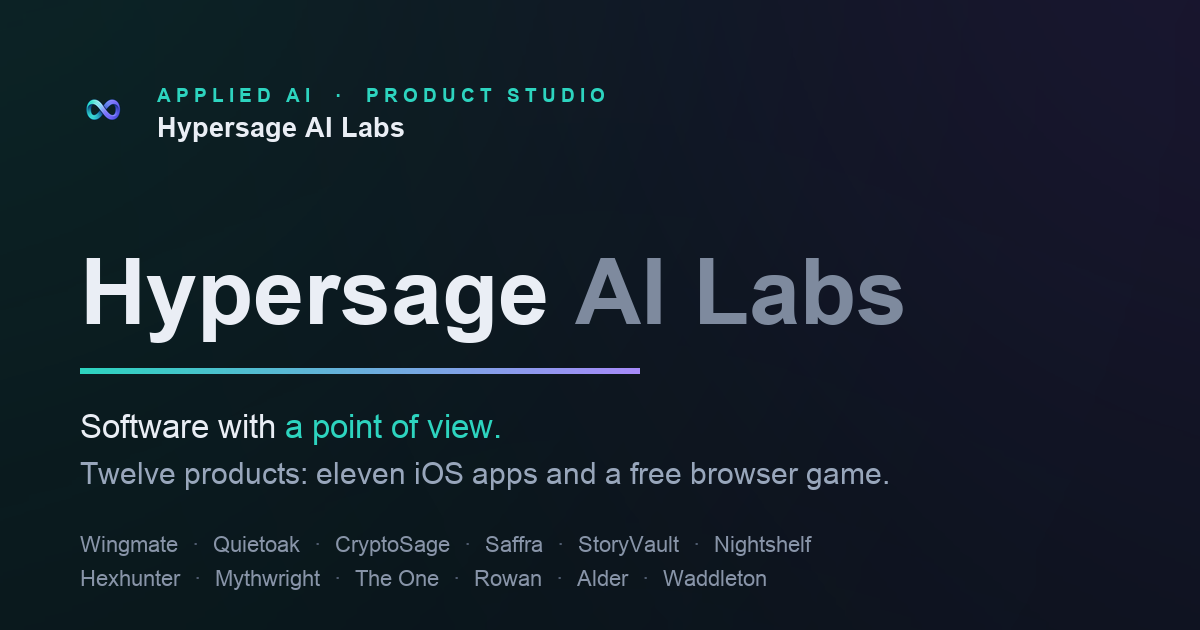
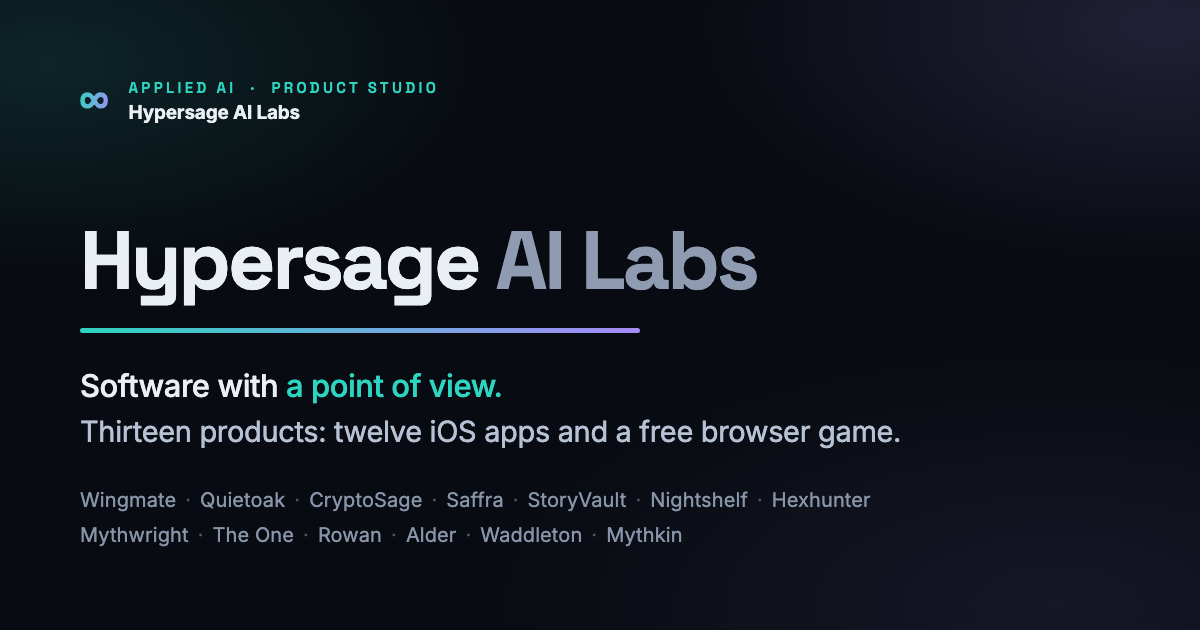
Redraw the link preview: thirteen products, and Mythkin is on it
The og-image was one generation behind the site. It read "Twelve products: eleven
iOS apps and a free browser game" and listed twelve names — Mythkin, shipped since,
was missing. The page's own meta description and og:description were already right
("thirteen consumer products", "twelve iOS apps and a free browser game"), so the
IMAGE was the only surface still telling anyone the wrong number, and the image is
the surface people actually see when the link is pasted into a message.

Redrawn to match the original exactly — same wash, same infinity mark, same
teal-to-violet rule, same type ramp — with the count corrected and the roster at
thirteen across two rows.

Cache-buster bumped to ?v=20260806 in all 24 files that reference it. Scrapers key
their cache on the URL, so an unchanged query string means iMessage, Slack and
Twitter would keep serving the old card for weeks regardless of what we upload.

diff --git a/index.html b/index.html
@@ -24,14 +24,14 @@
   <meta property="og:description" content="Thirteen consumer products across dating, mental health, chronic illness, recovery, crypto, cooking, AI characters, fiction, sleep, and games — each honest about what it is.">
   <meta property="og:url" content="https://hypersage.ai/">
   <meta property="og:site_name" content="Hypersage AI Labs">
-  <meta property="og:image" content="https://hypersage.ai/og-image.png?v=20260731b">
+  <meta property="og:image" content="https://hypersage.ai/og-image.png?v=20260806">
   <meta property="og:image:width" content="1200">
   <meta property="og:image:height" content="630">
   <meta property="og:image:alt" content="Hypersage AI Labs — an AI product studio">
   <meta name="twitter:card" content="summary_large_image">
   <meta name="twitter:title" content="Hypersage AI Labs — an independent AI product studio">
   <meta name="twitter:description" content="An independent studio building twelve iOS apps and one free browser game — human-directed, and honest about what the AI is.">
-  <meta name="twitter:image" content="https://hypersage.ai/og-image.png?v=20260731b">
+  <meta name="twitter:image" content="https://hypersage.ai/og-image.png?v=20260806">
   <meta name="twitter:image:alt" content="Hypersage AI Labs — an AI product studio">
 
   <link rel="icon" type="image/png" href="favicon.png">
@@ -44,7 +44,7 @@
     "name": "Hypersage AI Labs",
     "url": "https://hypersage.ai/",
     "logo": "https://hypersage.ai/apple-touch-icon.png",
-    "image": "https://hypersage.ai/og-image.png?v=20260731b",
+    "image": "https://hypersage.ai/og-image.png?v=20260806",
     "description": "An independent studio building thirteen consumer products — twelve iOS apps and one free browser game — across dating, mental health, chronic illness, recovery, crypto, cooking, AI characters, fiction, sleep, and play.",
     "email": "support@hypersage.ai",
     "makesOffer": [

diff --git a/rowan/index.html b/rowan/index.html
@@ -17,14 +17,14 @@
   <meta property="og:description" content="Talk about your day in plain words. Rowan turns it into a record you can use — and a brief you hand your doctor.">
   <meta property="og:url" content="https://hypersage.ai/rowan/">
   <meta property="og:site_name" content="Rowan">
-  <meta property="og:image" content="https://hypersage.ai/rowan/og-image.png?v=20260731a">
+  <meta property="og:image" content="https://hypersage.ai/rowan/og-image.png?v=20260806">
   <meta property="og:image:width" content="1200">
   <meta property="og:image:height" content="630">
   <meta property="og:image:alt" content="Rowan — the health companion that knows your story">
   <meta name="twitter:card" content="summary_large_image">
   <meta name="twitter:title" content="Rowan — the health companion that knows your story.">
   <meta name="twitter:description" content="Talk about your day in plain words. Rowan turns it into a record you can use — and a brief you hand your doctor.">
-  <meta name="twitter:image" content="https://hypersage.ai/rowan/og-image.png?v=20260731a">
+  <meta name="twitter:image" content="https://hypersage.ai/rowan/og-image.png?v=20260806">
   <meta name="twitter:image:alt" content="Rowan — the health companion that knows your story">
 
   <link rel="icon" type="image/png" href="rowan-icon.png?v=20260731a">

diff --git a/hexhunter/index.html b/hexhunter/index.html
@@ -17,14 +17,14 @@
   <meta property="og:description" content="A gothic illustrated horde-survivor for iOS. Pick a hero, draft upgrades, evolve weapons, and survive the horde.">
   <meta property="og:url" content="https://hypersage.ai/hexhunter/">
   <meta property="og:site_name" content="Hexhunter">
-  <meta property="og:image" content="https://hypersage.ai/hexhunter/og-image.png?v=20260711a">
+  <meta property="og:image" content="https://hypersage.ai/hexhunter/og-image.png?v=20260806">
   <meta property="og:image:width" content="1200">
   <meta property="og:image:height" content="630">
   <meta property="og:image:alt" content="Hexhunter — a gothic illustrated horde-survivor">
   <meta name="twitter:card" content="summary_large_image">
   <meta name="twitter:title" content="Hexhunter — Survive the Horde. Draft Your Doom.">
   <meta name="twitter:description" content="A gothic illustrated horde-survivor for iOS. Draft upgrades, evolve weapons, survive the horde.">
-  <meta name="twitter:image" content="https://hypersage.ai/hexhunter/og-image.png?v=20260711a">
+  <meta name="twitter:image" content="https://hypersage.ai/hexhunter/og-image.png?v=20260806">
   <meta name="twitter:image:alt" content="Hexhunter — a gothic illustrated horde-survivor">
 
   <link rel="icon" type="image/png" href="app-icon-512.png?v=20260711a">

diff --git a/quietoak/index.html b/quietoak/index.html
@@ -19,14 +19,14 @@
   <meta property="og:description" content="Practice DBT skills with a warm companion you choose — and who's there in the hard moments too. Crisis support is always free.">
   <meta property="og:url" content="https://hypersage.ai/quietoak/">
   <meta property="og:site_name" content="Quietoak">
-  <meta property="og:image" content="https://hypersage.ai/quietoak/og-image.png?v=20260804e">
+  <meta property="og:image" content="https://hypersage.ai/quietoak/og-image.png?v=20260806">
   <meta property="og:image:width" content="1200">
   <meta property="og:image:height" content="630">
   <meta property="og:image:alt" content="Quietoak — a calmer way to practice DBT skills">
   <meta name="twitter:card" content="summary_large_image">
   <meta name="twitter:title" content="Quietoak — A calmer way to practice DBT skills.">
   <meta name="twitter:description" content="Practice DBT skills with a warm companion you choose. The crisis kit is always free.">
-  <meta name="twitter:image" content="https://hypersage.ai/quietoak/og-image.png?v=20260804e">
+  <meta name="twitter:image" content="https://hypersage.ai/quietoak/og-image.png?v=20260806">
   <meta name="twitter:image:alt" content="Quietoak — a calmer way to practice DBT skills">
 
   <link rel="icon" type="image/png" href="quietoak-icon.png?v=20260804e">

diff --git a/waddleton/index.html b/waddleton/index.html
@@ -15,14 +15,14 @@
   <meta property="og:description" content="Make a penguin, meet other players, and dive into 14 arcade games. Free, in your browser.">
   <meta property="og:url" content="https://hypersage.ai/waddleton/">
   <meta property="og:site_name" content="Waddleton">
-  <meta property="og:image" content="https://hypersage.ai/waddleton/og-image.png?v=20260731a">
+  <meta property="og:image" content="https://hypersage.ai/waddleton/og-image.png?v=20260806">
   <meta property="og:image:width" content="1200">
   <meta property="og:image:height" content="630">
   <meta property="og:image:alt" content="Waddleton — a snowy island to waddle around">
   <meta name="twitter:card" content="summary_large_image">
   <meta name="twitter:title" content="Waddleton — a snowy island to waddle around.">
   <meta name="twitter:description" content="Make a penguin, meet other players, and dive into 14 arcade games. Free, in your browser.">
-  <meta name="twitter:image" content="https://hypersage.ai/waddleton/og-image.png?v=20260731a">
+  <meta name="twitter:image" content="https://hypersage.ai/waddleton/og-image.png?v=20260806">
   <meta name="twitter:image:alt" content="Waddleton — a snowy island to waddle around">
 
   <link rel="sitemap" type="application/xml" href="sitemap.xml">

diff --git a/alder/index.html b/alder/index.html
@@ -17,14 +17,14 @@
   <meta property="og:description" content="A private companion for recovery — sober time, cravings, and the hard hours. No account, and it never shames a lapse.">
   <meta property="og:url" content="https://hypersage.ai/alder/">
   <meta property="og:site_name" content="Alder">
-  <meta property="og:image" content="https://hypersage.ai/alder/og-image.png?v=20260731a">
+  <meta property="og:image" content="https://hypersage.ai/alder/og-image.png?v=20260806">
   <meta property="og:image:width" content="1200">
   <meta property="og:image:height" content="630">
   <meta property="og:image:alt" content="Alder — someone to talk to at 3am">
   <meta name="twitter:card" content="summary_large_image">
   <meta name="twitter:title" content="Alder — someone to talk to at 3am.">
   <meta name="twitter:description" content="A private companion for recovery — sober time, cravings, and the hard hours. No account.">
-  <meta name="twitter:image" content="https://hypersage.ai/alder/og-image.png?v=20260731a">
+  <meta name="twitter:image" content="https://hypersage.ai/alder/og-image.png?v=20260806">
   <meta name="twitter:image:alt" content="Alder — someone to talk to at 3am">
 
   <link rel="icon" type="image/png" href="alder-icon.png?v=20260731a">

diff --git a/quietoak/privacy.html b/quietoak/privacy.html
@@ -11,11 +11,11 @@
   <meta property="og:description" content="How Quietoak handles your data — what stays on your device, what's sent to generate companion replies, and how your mental-health content is protected.">
   <meta property="og:url" content="https://hypersage.ai/quietoak/privacy.html">
   <meta property="og:site_name" content="Quietoak">
-  <meta property="og:image" content="https://hypersage.ai/quietoak/og-image.png?v=20260804e">
+  <meta property="og:image" content="https://hypersage.ai/quietoak/og-image.png?v=20260806">
   <meta property="og:image:width" content="1200">
   <meta property="og:image:height" content="630">
   <meta name="twitter:card" content="summary_large_image">
-  <meta name="twitter:image" content="https://hypersage.ai/quietoak/og-image.png?v=20260804e">
+  <meta name="twitter:image" content="https://hypersage.ai/quietoak/og-image.png?v=20260806">
   <link rel="icon" type="image/png" href="quietoak-icon.png">
   <link rel="apple-touch-icon" href="quietoak-icon.png">
   <link rel="preconnect" href="https://fonts.googleapis.com">

diff --git a/waddleton/privacy.html b/waddleton/privacy.html
@@ -13,11 +13,11 @@
   <meta property="og:description" content="What Waddleton stores about your penguin, what it doesn't, and why there are no ads or analytics.">
   <meta property="og:url" content="https://hypersage.ai/waddleton/privacy.html">
   <meta property="og:site_name" content="Waddleton">
-  <meta property="og:image" content="https://hypersage.ai/waddleton/og-image.png?v=20260731a">
+  <meta property="og:image" content="https://hypersage.ai/waddleton/og-image.png?v=20260806">
   <meta property="og:image:width" content="1200">
   <meta property="og:image:height" content="630">
   <meta name="twitter:card" content="summary_large_image">
-  <meta name="twitter:image" content="https://hypersage.ai/waddleton/og-image.png?v=20260731a">
+  <meta name="twitter:image" content="https://hypersage.ai/waddleton/og-image.png?v=20260806">
   <link rel="sitemap" type="application/xml" href="sitemap.xml">
   <link rel="icon" type="image/png" href="waddleton-icon.png?v=20260731a">
   <link rel="apple-touch-icon" href="waddleton-icon.png?v=20260731a">

diff --git a/rowan/privacy.html b/rowan/privacy.html
@@ -13,11 +13,11 @@
   <meta property="og:description" content="How Rowan handles your health information — what's stored, what's sent to an AI provider, how long each thing is kept, and how to delete all of it.">
   <meta property="og:url" content="https://hypersage.ai/rowan/privacy.html">
   <meta property="og:site_name" content="Rowan">
-  <meta property="og:image" content="https://hypersage.ai/rowan/og-image.png?v=20260731a">
+  <meta property="og:image" content="https://hypersage.ai/rowan/og-image.png?v=20260806">
   <meta property="og:image:width" content="1200">
   <meta property="og:image:height" content="630">
   <meta name="twitter:card" content="summary_large_image">
-  <meta name="twitter:image" content="https://hypersage.ai/rowan/og-image.png?v=20260731a">
+  <meta name="twitter:image" content="https://hypersage.ai/rowan/og-image.png?v=20260806">
   <link rel="icon" type="image/png" href="rowan-icon.png?v=20260731a">
   <link rel="apple-touch-icon" href="rowan-icon.png?v=20260731a">
   <link rel="stylesheet" href="legal.css">

diff --git a/quietoak/terms.html b/quietoak/terms.html
@@ -11,11 +11,11 @@
   <meta property="og:description" content="The terms for using Quietoak — a self-help DBT skills app. Not therapy, not a crisis service; your companion is an AI guide. 18+.">
   <meta property="og:url" content="https://hypersage.ai/quietoak/terms.html">
   <meta property="og:site_name" content="Quietoak">
-  <meta property="og:image" content="https://hypersage.ai/quietoak/og-image.png?v=20260804e">
+  <meta property="og:image" content="https://hypersage.ai/quietoak/og-image.png?v=20260806">
   <meta property="og:image:width" content="1200">
   <meta property="og:image:height" content="630">
   <meta name="twitter:card" content="summary_large_image">
-  <meta name="twitter:image" content="https://hypersage.ai/quietoak/og-image.png?v=20260804e">
+  <meta name="twitter:image" content="https://hypersage.ai/quietoak/og-image.png?v=20260806">
   <link rel="icon" type="image/png" href="quietoak-icon.png">
   <link rel="apple-touch-icon" href="quietoak-icon.png">
   <link rel="preconnect" href="https://fonts.googleapis.com">

diff --git a/waddleton/support.html b/waddleton/support.html
@@ -13,11 +13,11 @@
   <meta property="og:description" content="Help with Waddleton — lost penguins, stuck games, blocking players, and how to reach us.">
   <meta property="og:url" content="https://hypersage.ai/waddleton/support.html">
   <meta property="og:site_name" content="Waddleton">
-  <meta property="og:image" content="https://hypersage.ai/waddleton/og-image.png?v=20260731a">
+  <meta property="og:image" content="https://hypersage.ai/waddleton/og-image.png?v=20260806">
   <meta property="og:image:width" content="1200">
   <meta property="og:image:height" content="630">
   <meta name="twitter:card" content="summary_large_image">
-  <meta name="twitter:image" content="https://hypersage.ai/waddleton/og-image.png?v=20260731a">
+  <meta name="twitter:image" content="https://hypersage.ai/waddleton/og-image.png?v=20260806">
   <link rel="sitemap" type="application/xml" href="sitemap.xml">
   <link rel="icon" type="image/png" href="waddleton-icon.png?v=20260731a">
   <link rel="apple-touch-icon" href="waddleton-icon.png?v=20260731a">

diff --git a/privacy.html b/privacy.html
@@ -16,11 +16,11 @@
   <meta property="og:description" content="How the Hypersage AI Labs website handles data — it collects nothing, sets no cookies, and runs no analytics. Each product has its own policy.">
   <meta property="og:url" content="https://hypersage.ai/privacy.html">
   <meta property="og:site_name" content="Hypersage AI Labs">
-  <meta property="og:image" content="https://hypersage.ai/og-image.png?v=20260731b">
+  <meta property="og:image" content="https://hypersage.ai/og-image.png?v=20260806">
   <meta property="og:image:width" content="1200">
   <meta property="og:image:height" content="630">
   <meta name="twitter:card" content="summary_large_image">
-  <meta name="twitter:image" content="https://hypersage.ai/og-image.png?v=20260731b">
+  <meta name="twitter:image" content="https://hypersage.ai/og-image.png?v=20260806">
   <link rel="icon" type="image/png" href="favicon.png">
   <link rel="apple-touch-icon" sizes="180x180" href="apple-touch-icon.png">
   <link rel="preconnect" href="https://fonts.googleapis.com">
